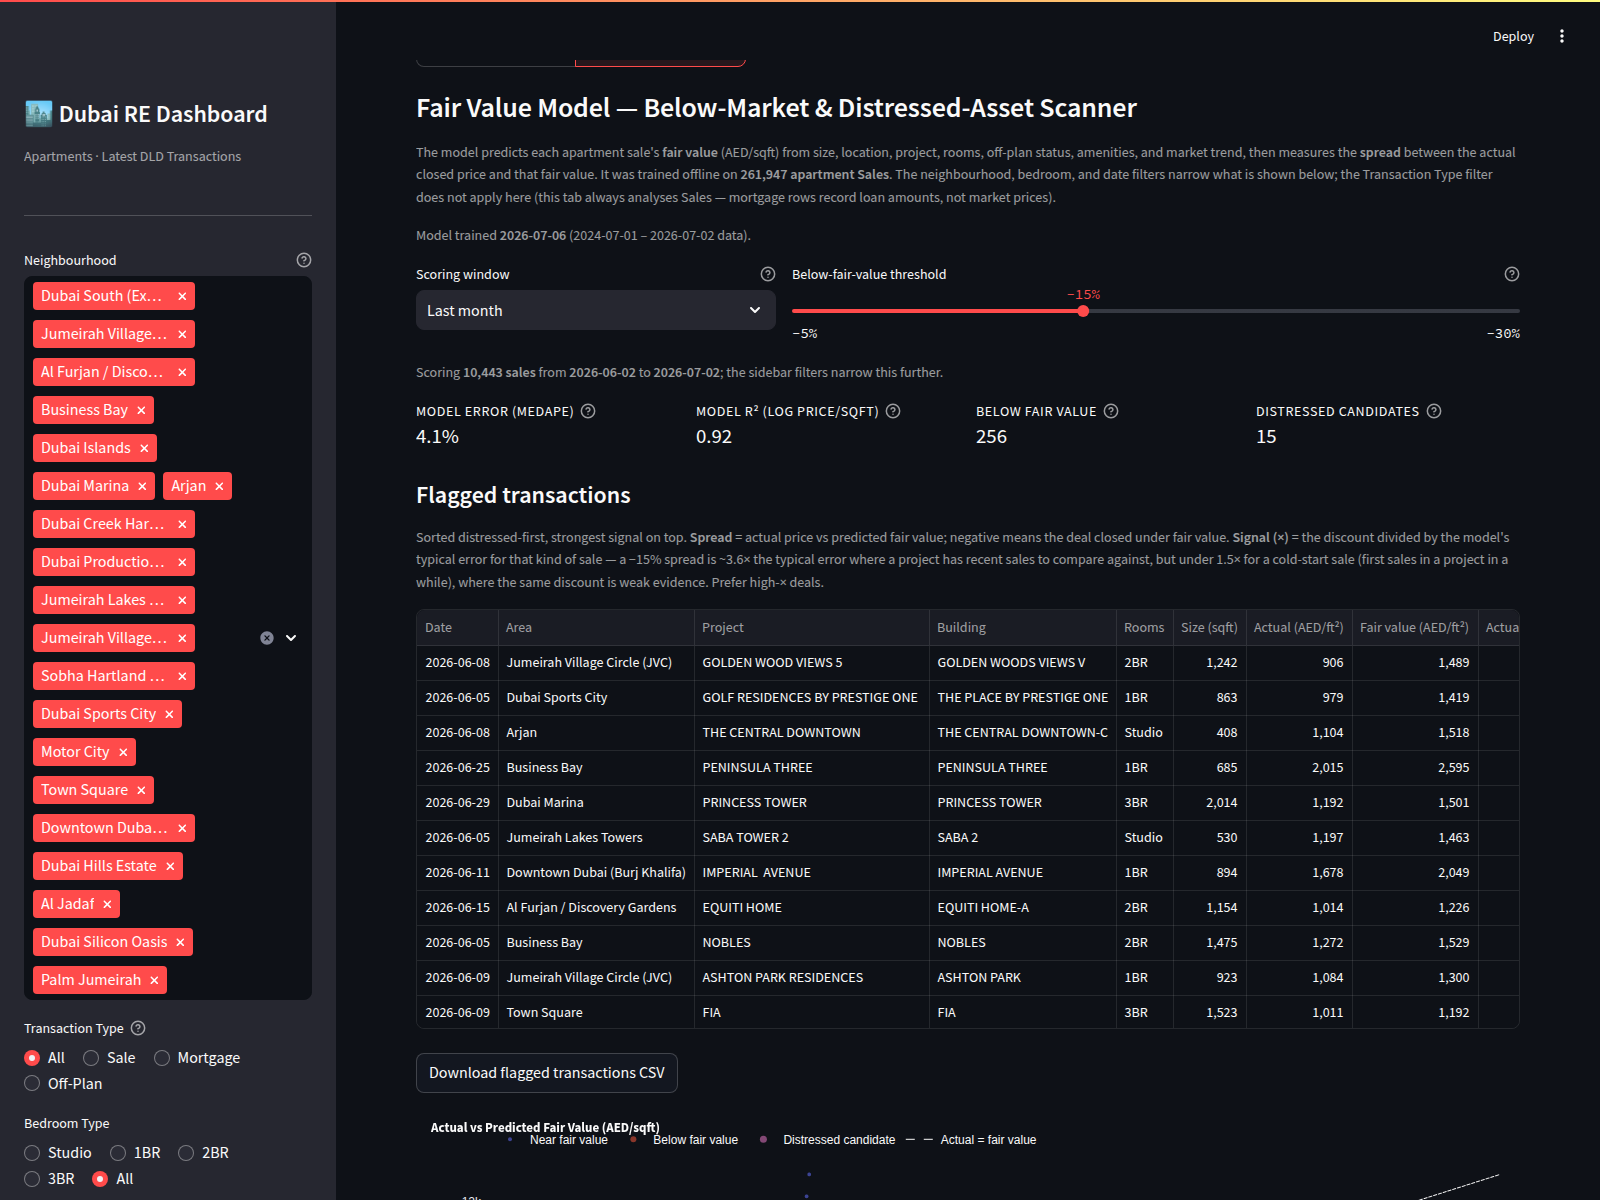
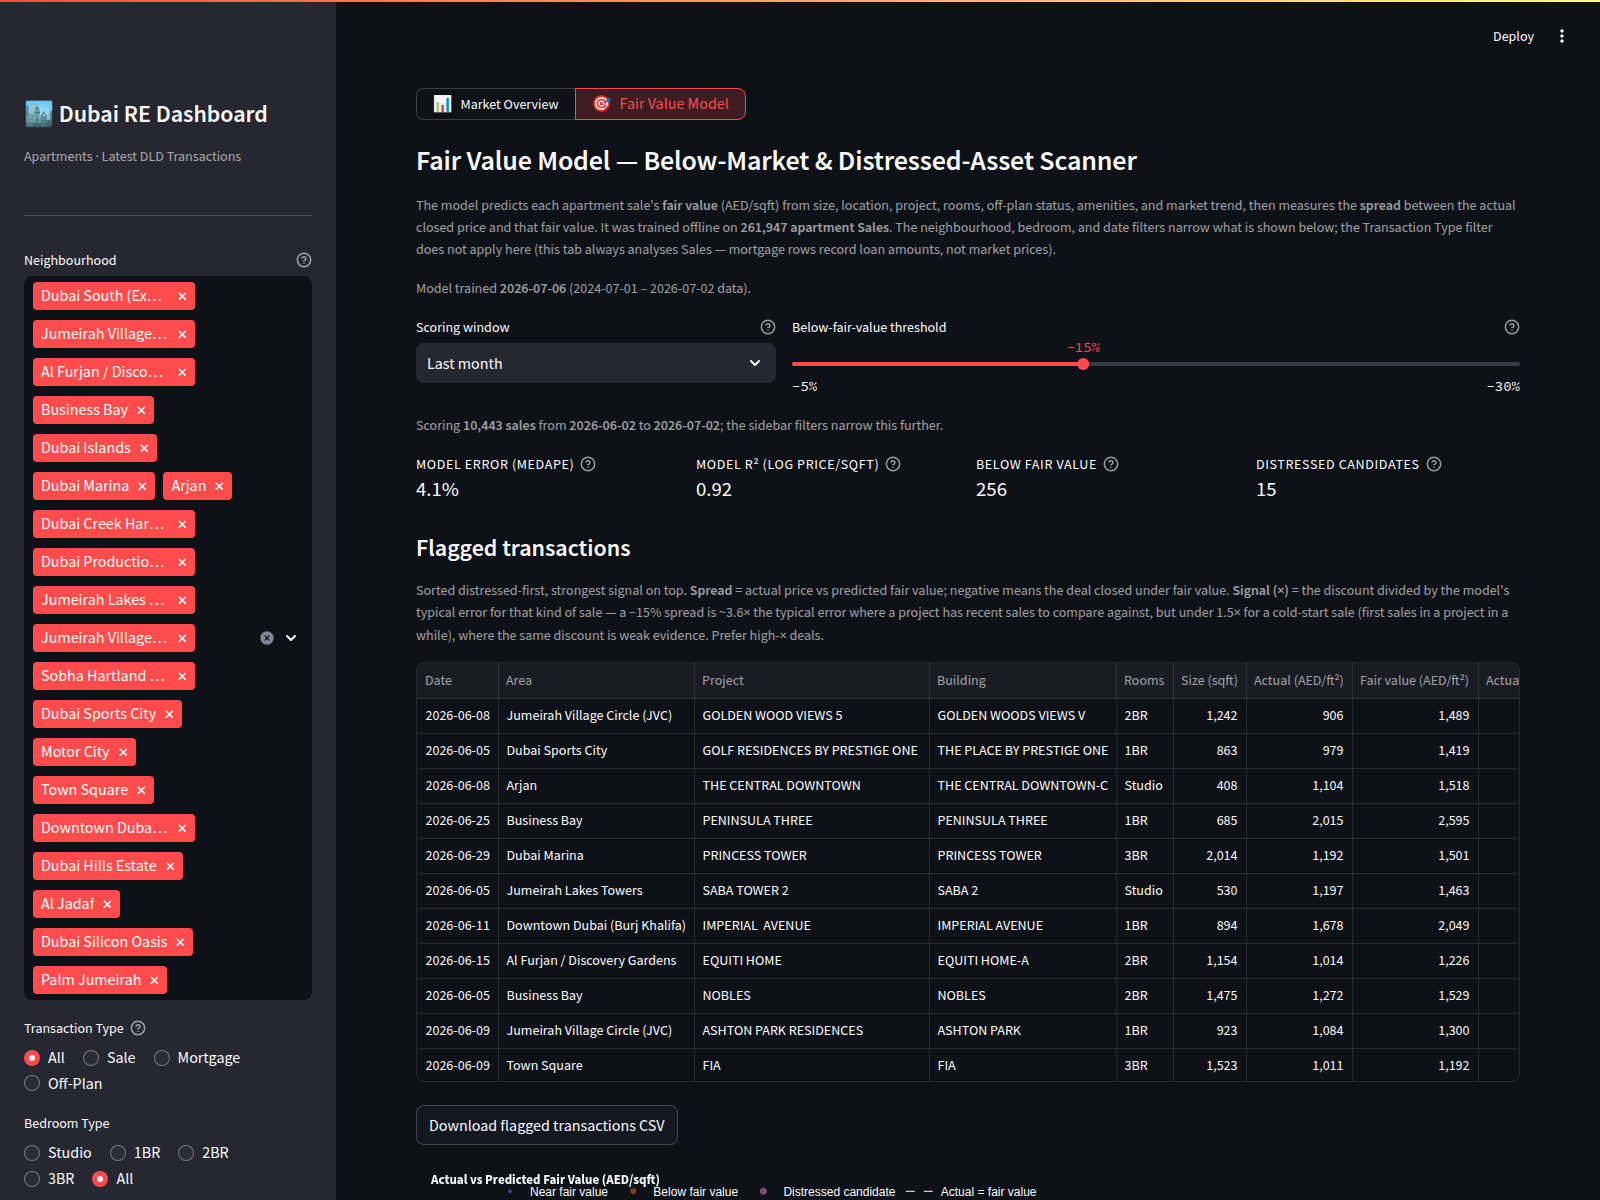
Fix page selector hidden under the Streamlit header
The custom CSS trimmed .block-container top padding to 1.2rem, which slid
the first element - the Market Overview / Fair Value segmented control -
under the ~3.75rem sticky app header, leaving it clipped and unclickable.
Raise the padding to 4.5rem (still tighter than the 6rem default) and
recapture the README screenshots. Verified with a real browser: a plain
Playwright click on the selector now works where it previously failed with
'stAppHeader intercepts pointer events'.

Claude-Session: https://claude.ai/code/session_01QsdE7JfsFVpMvY6bCKTK4X

diff --git a/dubai_dashboard.py b/dubai_dashboard.py
@@ -1522,7 +1522,9 @@ st.markdown(
     <style>
         [data-testid="stMetricValue"] { font-size: 1.3rem; }
         [data-testid="stMetricLabel"] { font-size: 0.78rem; text-transform: uppercase; letter-spacing: .05em; }
-        .block-container { padding-top: 1.2rem; }
+        /* Must clear the ~3.75rem sticky stAppHeader or the first element
+           (the page selector) renders underneath it, clipped and unclickable. */
+        .block-container { padding-top: 4.5rem; }
         h1 { font-size: 1.5rem !important; }
     </style>
     """,
